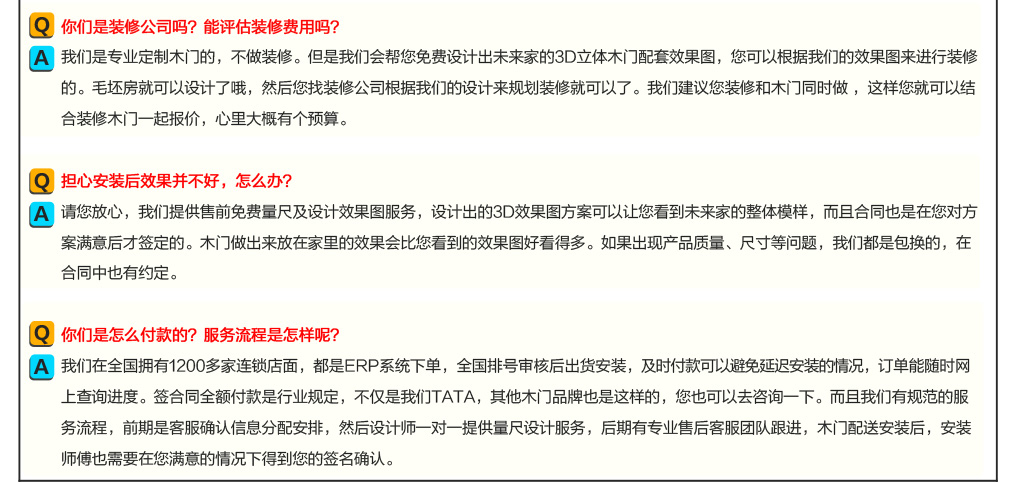
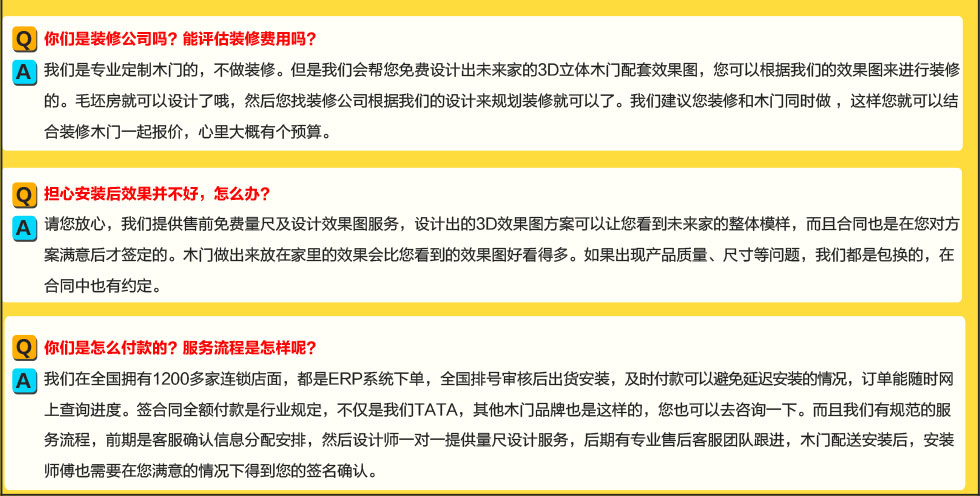
second

diff --git a/index.html b/index.html
@@ -252,26 +252,27 @@
 				<div class="tac">
 					<img src="images/pt_13.jpg" alt="">
 				</div>
-				<div class="tac">
+				<div class="tac ">
 					<img src="images/pt_14.jpg" alt="">
 				</div>
+				<div class="blank20 bkyellow"></div>
 				<div class="tac">
-					<img src="images/pt_15.jpg" alt="">
+					<img src="images/pt_15.jpg" alt="" class="p_100">
 				</div>
 				<div class="tac">
-					<img src="images/pt_16.jpg" alt="">
+					<img src="images/pt_16.jpg" alt="" class="p_100">
 				</div>
 				<div class="tac">
-					<img src="images/pt_17.jpg" alt="">
+					<img src="images/pt_17.jpg" alt="" class="p_100">
 				</div>
 				<div class="tac">
-					<img src="images/pt_18.jpg" alt="">
+					<img src="images/pt_18.jpg" alt="" class="p_100">
 				</div>
-				<div class="blank20"></div>
+				<div class="blank20 bkyellow"></div>
 				<div class="clear"></div>
 			</div>
 		</div>
-		<div class="bk_top p_100" style="background: #bdbdbd;padding:6px 0px;">
+		<div class="bk_top p_100" style="background: #e39e09;padding:6px 0px;">
 			<a href="#top">
 				<img src="images/go_top.png" class="block">
 			</a>

diff --git a/css/style.css b/css/style.css
@@ -6,6 +6,8 @@ input ,select{outline: none}
 .relative{ position: relative;}
 .absolute{position: absolute;}
 
+
+
 .clear{ clear:both; height: 0px;  overflow:  hidden;}
 .p_100{ width: 100%;}
 .w_nr{ width: 1000px; margin: 0 auto;} 
@@ -13,7 +15,7 @@ input ,select{outline: none}
 .over{  overflow: hidden;}
 .block{display: block;}
 .bkcenter{background-position:center;}
-
+.bkyellow{ background: #fedc3d;}
 .error_red{ color: #B11818;}
 
 .blank10{  height: 10px; overflow: hidden; clear: both;}
